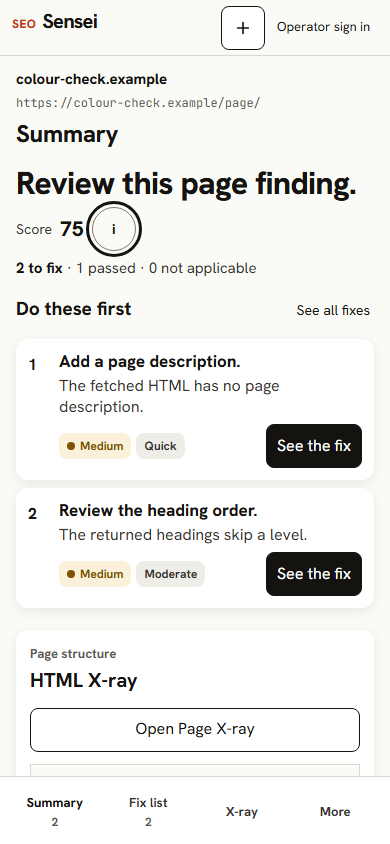
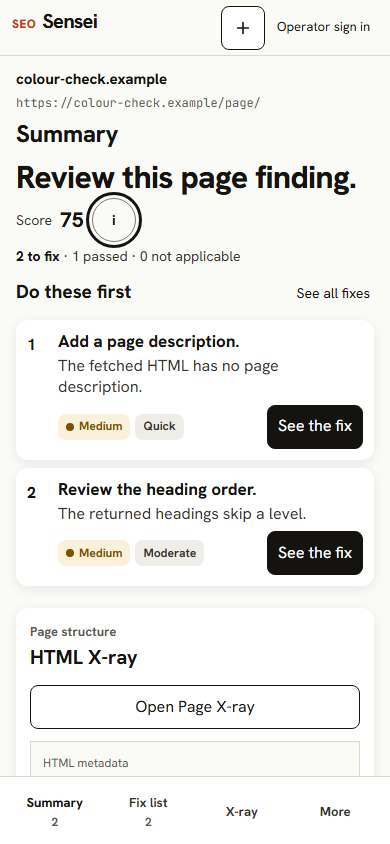
Keep long mobile summary priorities above navigation

diff --git a/web/e2e/phase-s2c1-quality.spec.ts b/web/e2e/phase-s2c1-quality.spec.ts
@@ -1,4 +1,6 @@
 import AxeBuilder from "@axe-core/playwright";
+import { mkdirSync } from "node:fs";
+import { resolve } from "node:path";
 import { expect, test, type Page } from "@playwright/test";
 
 const appOrigin = "http://127.0.0.1:4173";
@@ -307,6 +309,105 @@ test("long priority reasons wrap and remain fully visible", async ({ page }) => 
     expect(dimensions.scrollHeight).toBeLessThanOrEqual(dimensions.clientHeight + 1);
     expect(dimensions.scrollWidth).toBeLessThanOrEqual(dimensions.clientWidth + 1);
   }
+});
+
+test("keeps two complete priority cards above mobile navigation with the controlled warnings report", async ({ page }) => {
+  const api = await installApi(page);
+  const report = analysisFor("medium", true);
+  const first = report.checks.find((item) => item.id === "meta_description")!;
+  first.id = "visible_text";
+  first.category = "headings_content_structure";
+  first.anatomy_part = "content";
+  first.impact = "high";
+  first.finding_title = "Check whether this short page needs more context";
+  first.finding_reason = "A short page may be appropriate for its purpose. Check whether visitors get the context they need.";
+  const second = report.checks.find((item) => item.id === "heading_hierarchy")!;
+  second.id = "title";
+  second.category = "metadata";
+  second.anatomy_part = "title";
+  second.finding_title = "Make the page title more descriptive";
+  second.finding_reason = "The title has 11 characters. Check that it clearly identifies this page; this length check does not predict search presentation.";
+  const additionalFindings = [
+    { id: "canonical", title: "Canonical URL", finding_title: "Review the canonical URL", finding_reason: "The observed canonical relationship is missing. Confirm that the canonical URL identifies the page intended by the site owner.", impact: "medium", effort: "moderate", anatomy_part: "technical" },
+    { id: "internal_links", title: "Internal links", finding_title: "Add useful links to related pages", finding_reason: "No internal links were detected in the fetched HTML. Add links where they help visitors move between related pages.", impact: "medium", effort: "moderate", anatomy_part: "links" },
+    { id: "open_graph", title: "Open Graph metadata", finding_title: "Add useful social sharing details", finding_reason: "The fetched HTML contains 0 of four checked Open Graph fields.", impact: "low", effort: "quick", anatomy_part: "sharing" },
+    { id: "twitter_metadata", title: "X metadata", finding_title: "Add useful X sharing details", finding_reason: "The fetched HTML contains 0 of four checked X card fields.", impact: "low", effort: "quick", anatomy_part: "sharing" },
+  ];
+  report.checks.push(...additionalFindings.map((finding) => ({
+    ...first,
+    ...finding,
+  })));
+  const passingCheck = report.checks[0]!;
+  report.checks.push(...Array.from({ length: 13 }, (_, index) => ({
+    ...passingCheck,
+    id: `controlled_pass_${index + 1}`,
+    title: `Passing check ${index + 1}`,
+  })));
+  report.checks.push(...Array.from({ length: 2 }, (_, index) => ({
+    ...passingCheck,
+    id: `controlled_na_${index + 1}`,
+    title: `Not applicable check ${index + 1}`,
+    status: "not_applicable",
+  })));
+  report.checks.push({
+    ...passingCheck,
+    id: "json_ld",
+    title: "Structured data",
+    status: "warning",
+    impact: null,
+    effort: null,
+    is_actionable: false,
+    optional_note: "Optional structured data was not found.",
+    exclusion_reason: "Optional structured data is not required for every page.",
+  });
+  report.findings_summary.total_checks = 23;
+  report.findings_summary.raw_passes = 14;
+  report.findings_summary.raw_warnings = 7;
+  report.findings_summary.raw_failures = 0;
+  report.findings_summary.raw_not_applicable = 2;
+  report.findings_summary.actionable_count = 6;
+  report.findings_summary.optional_note_count = 1;
+  report.findings_summary.by_impact = { blocking: 0, high: 1, medium: 3, low: 2 };
+  report.findings_summary.by_effort = { quick: 3, moderate: 3, larger_job: 0 };
+  report.findings_summary.prioritized_check_ids = ["visible_text", "title", "canonical", "internal_links", "open_graph", "twitter_metadata"];
+  report.findings_summary.exclusions = [{
+    check_id: "json_ld",
+    status: "warning",
+    reason: "Optional structured data is not required for every page.",
+  }];
+  report.findings_summary.verdict = "6 fixes. The very short page content matters most.";
+  report.deterministic_score.overall_score = 84;
+  report.deterministic_score.points_earned = 84;
+  api.setCustomReport(report);
+
+  await page.setViewportSize({ width: 390, height: 844 });
+  await page.goto("/");
+  await submitAudit(page);
+  await expect(page.getByRole("heading", { name: "Summary" })).toBeVisible();
+  const measurement = await page.evaluate(() => {
+    const nav = document.querySelector<HTMLElement>(".guest-mobile-tabs")!.getBoundingClientRect();
+    const cards = Array.from(document.querySelectorAll<HTMLElement>("[data-priority-card]"))
+      .slice(0, 2)
+      .map((element) => {
+        const box = element.getBoundingClientRect();
+        return { x: box.x, top: box.top, width: box.width, height: box.height, right: box.right, bottom: box.bottom };
+      });
+    return { navTop: nav.top, cards, scrollWidth: document.documentElement.scrollWidth };
+  });
+  console.log("S2-C1 controlled warnings mobile priority bounds:", JSON.stringify(measurement));
+  expect(measurement.scrollWidth).toBe(390);
+  expect(measurement.cards).toHaveLength(2);
+  expect(measurement.cards.every((card) => card.top >= 0 && card.bottom <= measurement.navTop)).toBe(true);
+  await expect(page.getByTestId("summary-count-line")).toContainText("6 to fix");
+  await expect(page.getByTestId("summary-count-line")).toContainText("14 passed");
+  await expect(page.getByTestId("summary-count-line")).toContainText("2 not applicable");
+  await expect(page.getByTestId("summary-count-line")).toContainText("1 optional note");
+  await expect(page.locator("[data-priority-card] .guest-priority-copy p").first()).toHaveText(first.finding_reason!);
+  await expect(page.locator("[data-priority-card] .guest-priority-copy p").nth(1)).toHaveText(second.finding_reason!);
+  await expect(page.locator("[data-priority-card] .guest-priority-copy p").first()).toHaveCSS("font-size", "16px");
+  const evidenceDirectory = resolve(process.cwd(), "review/s2-c1");
+  mkdirSync(evidenceDirectory, { recursive: true });
+  await page.screenshot({ path: resolve(evidenceDirectory, "summary-mobile-priority-clearance-390x844.png") });
 });
 
 test("checks keyboard access, announcements, touch targets, and responsive reflow", async ({ page }) => {

diff --git a/web/src/styles/s2-a.css b/web/src/styles/s2-a.css
@@ -191,7 +191,7 @@
 .guest-score-popover li strong { font-size: 12px; }
 .guest-report-counts { margin: 9px 0 0; color: #36342f; font-size: 16px; }
 .guest-report-counts strong, .guest-fix-count strong { color: #14130f; font-weight: 750; }
-.guest-optional-count { margin: 2px 0 0; color: #5c5952; font-size: 13px; }
+.guest-optional-count { color: #5c5952; font-size: 13px; }
 .guest-priority-heading, .guest-section-heading { display: flex; align-items: baseline; justify-content: space-between; gap: 12px; }
 .guest-priority-heading { margin: 16px 0 8px; }
 .guest-priority-heading h2, .guest-section-heading h2 { margin: 0; color: #14130f; font-size: 21px; font-weight: 750; line-height: 1.2; }
@@ -396,20 +396,20 @@
   .guest-url-input { min-height: 56px; font-size: 13px !important; }
   .guest-entry-form > .guest-primary-button { min-height: 48px; }
   .guest-examples { margin-top: 28px; }
-  .guest-page-identity { margin-bottom: 10px; }
+  .guest-page-identity { margin-bottom: 6px; }
   .guest-page-identity .guest-summary-kicker { margin-top: 8px; }
   .guest-page-identity h1 { font-size: 24px; }
   .guest-verdict-heading { display: block; }
-  .guest-verdict { max-width: 24ch; font-size: 32px; }
-  .guest-score { width: fit-content; margin-top: 7px; padding: 0; border: 0; }
+  .guest-verdict { max-width: 24ch; margin-top: 2px; font-size: 32px; }
+  .guest-score { width: fit-content; margin-top: 4px; padding: 0; border: 0; }
   .guest-score strong { font-size: 21px; }
   .guest-score-help summary { width: 44px; height: 44px; }
-  .guest-report-counts { margin-top: 6px; font-size: 15px; }
-  .guest-priority-heading { margin: 8px 0 6px; }
+  .guest-report-counts { margin-top: 4px; font-size: 14px; }
+  .guest-priority-heading { margin: 4px 0; }
   .guest-priority-heading h2 { font-size: 19px; }
   .guest-priority-heading .guest-text-button { min-height: 44px; font-size: 14px; }
   .guest-priority-list { gap: 8px; }
-  .guest-priority-card { grid-template-columns: 22px minmax(0, 1fr); gap: 7px 9px; padding: 12px; }
+  .guest-priority-card { grid-template-columns: 22px minmax(0, 1fr); gap: 7px 9px; padding: 11px; }
   .guest-priority-number { grid-row: 1 / span 2; font-size: 16px; }
   .guest-priority-copy h3 { font-size: 17px; }
   .guest-priority-copy p { margin-top: 3px; font-size: 16px; line-height: 1.32; overflow-wrap: anywhere; }

diff --git a/web/src/features/guest/GuestSummary.tsx b/web/src/features/guest/GuestSummary.tsx
@@ -65,8 +65,8 @@ export function GuestSummary({ report, onSeeFix, onReviewAll, onOpenXray }: Prop
 
         <p className="guest-report-counts" data-testid="summary-count-line">
           <strong>{model.openCount} to fix</strong><span aria-hidden="true"> · </span>{model.passedCount} passed<span aria-hidden="true"> · </span>{model.notApplicableCount} not applicable
+          {optionalCount > 0 && <><span aria-hidden="true"> · </span><span className="guest-optional-count">{optionalCount} optional {optionalCount === 1 ? "note" : "notes"}</span></>}
         </p>
-        {optionalCount > 0 && <p className="guest-optional-count">{optionalCount} optional {optionalCount === 1 ? "note" : "notes"}</p>}
 
         <div className="guest-priority-heading">
           <h2>Do these first</h2>

diff --git a/docs/s2-c-quality-ledger.md b/docs/s2-c-quality-ledger.md
@@ -4,8 +4,9 @@
 
 - Required `origin/main`: `f3a024b83653f738fd55124d3c012e94b1605b57`.
 - Feature branch: `fix/s2-c1-quality-accessibility`, created from that exact main commit.
-- Code and evidence commit: `5e9f16a1d79b84c9592f050b213612f002085548`.
-- The ledger is committed separately. The delivery report and PR checks identify the final branch tip and exact-head CI result.
+- Starting feature SHA for this final correction: `376c64155519ee6eed2a0a3f2588c713dce1aab5`.
+- Initial implementation/evidence commit: `5e9f16a1d79b84c9592f050b213612f002085548`.
+- The ledger and final corrections are committed separately. The delivery report and PR checks identify the final branch tip and exact-head CI result.
 - PR #10 is read-only and remains a separate unmerged design reference at `51a8134ce6a162730bfc8c97bc6c1d76a81d376e`.
 
 ## Confirmed defects and corrections
@@ -56,8 +57,8 @@ The production Chromium suite covered Home, Summary, Fix list, Page X-ray, On-pa
 
 - Widths 320, 390, 768, 1024 and 1440px: no horizontal overflow on measured implemented guest pages; minimum measured interactive target height is 44px.
 - Landscape 844×390: no horizontal overflow; minimum target remains 44px; the last report control clears the fixed navigation.
-- At 390×844 Summary: priority 1 is y=338.64–480.11px; priority 2 is y=488.11–608.47px; fixed navigation begins y=776px. The second card has 167.53px clearance.
-- At 320×844 Summary: first two cards end at y=506.34px and y=673.41px; navigation begins y=776px.
+- At 390×844 Summary using the longer six-finding warning report: priority 1 is x=16, y=389.17, 358×181.83px; priority 2 is x=16, y=579, 358×181.69px; fixed navigation begins y=776px. The second card has 15.31px clearance; its full reason and action remain visible at 16px body text.
+- At 320×844 Summary on the two-finding responsive report: the first two cards end at y=487.78px and y=654.84px; navigation begins y=776px.
 - A 1.5× computed-text-size stress at 390px reports no horizontal overflow or right-edge clipping across Summary, Fix list, X-ray, On-page, and Previews. This is not browser zoom evidence.
 - Actual browser 200% zoom and manual screen-reader testing were not performed and remain **UNVERIFIED**. Automated Axe results do not substitute for those checks.
 - The X-ray is the visually longest report screen on mobile. Its mapped evidence and selected details remain available; no blocking overlap was observed. Desktop detail panel remains visible while a selected region is scrolled into view.
@@ -77,9 +78,9 @@ Capture metadata and exact rectangles are in [`web/review/s2-c1/README.md`](../w
 | S2C1-7 SHOULD audit | PASS | This ledger; keyword/loading/long-copy and X-ray Playwright tests | Items 7–13 each have evidence, disposition, impact, and follow-up action. Mark-done is intentionally deferred. |
 | S2C1-8 keyboard/focus/dialog/form/announcement | PASS | `checks keyboard access, announcements, touch targets, and responsive reflow`; Axe and navigation E2E | Home/report screens and More checked; automated Axe only. Manual screen-reader use remains unverified. |
 | S2C1-9 responsive, text enlargement, reflow | PASS | Same responsive test | 320/390/768/1024/1440 and landscape 844×390; 1.5× text stress; no overflow/clipping. Real 200% browser zoom remains unverified. |
-| S2C1-10 mobile Summary cards | PASS | Responsive test and `summary-mobile-priority-clearance-390x844.png` | Second card bottom 608.47px; nav top 776px; 167.53px clearance at 390×844. |
+| S2C1-10 mobile Summary cards | PASS | `keeps two complete priority cards above mobile navigation with the controlled warnings report`; `web/review/s2-c1/summary-mobile-priority-clearance-390x844.png` | Six-finding warning report at 390×844: second card bottom 760.69px; nav top 776px; 15.31px clearance. Full reasons and actions fit; reason text remains 16px. |
 | S2C1-11 evidence/security invariants | PASS | JSON-LD tests, guest/security regression suite, E2E keyword and external-request checks, static scope review | No scoring/auth/security contract change, keyword not sent, no new outbound request or fabricated content. Live provider and deployment behavior are not claimed. |
-| S2C1-12 guest/auth/scoring/extension regression | UNVERIFIED pending exact-head integration CI | Full local pytest, web unit/E2E, focused HTTPS checks earlier in this task; final CI | Local checks passed. Exact final-head authenticated integration/container jobs are required because the complete local integration screenshot suite was not rerun; it writes into the separately reviewed S2-B2 evidence directory. |
+| S2C1-12 guest/auth/scoring/extension regression | PASS | `.\tests\integration\run_phase2d_local.ps1`; full Pytest and web regression suites | Isolated HTTPS/Caddy integration passed 6/6, including authenticated analysis, API-domain isolation, guest journey, controlled analysis-to-X-ray, specialist pages, reload recovery and cancellation. No production config changed. |
 | S2C1-13 final GitHub CI | UNVERIFIED pending final-head checks | PR check runs on final branch tip | Report exact run/head and all five job states in delivery; do not infer success from earlier CI. |
 | S2C1-14 protected state and artifacts | UNVERIFIED pending delivery recheck | Git SHA/PR metadata, diff inventory, artifact SHA256 | Main, PR #10, environment, and named untracked files must be rechecked after push. |
 
@@ -98,11 +99,12 @@ npm --prefix web run lint                                     passed
 npm --prefix web test                                         8 files, 90 tests passed
 npm --prefix web run build                                    passed; Vite transformed 141 modules
 npm --prefix web run test:e2e -- --workers=1 --grep-invert "captures demo and authentication browser review screenshots|renders v1.1 verdicts, shared counts, priority order, and severity colors in production reports|opens the fictional Northstar report X-ray and preserves its provenance|local example opens reload-safe On-page and Previews with usable mobile navigation"
-                                                               18 passed
+                                                               19 passed
+.\tests\integration\run_phase2d_local.ps1                   passed; isolated HTTPS integration 6/6
 git diff --check                                             passed
 ```
 
-Pytest skip: `tests/test_browser_auth.py:552`, POSIX account-file mode check not applicable on Windows. The local final Playwright invocation intentionally excluded four existing screenshot-capture tests to avoid overwriting previously approved S1-B/S2-A/S2-B evidence; the new C1 captures were generated by allowed tests. The controlled HTTPS integration harness had passed three focused checks earlier in this task sequence (Caddy routing/isolation, zero-fix result/reload recovery, and cancellation); it was not rerun after the CSS-only sticky-detail adjustment. The exact-head GitHub authenticated integration job remains the final regression evidence.
+Pytest skip: `tests/test_browser_auth.py:552`, POSIX account-file mode check not applicable on Windows. The final local Playwright invocation excluded four existing screenshot-capture tests to avoid overwriting approved milestone captures; all other 19 browser tests passed. The HTTPS harness passed all six integration tests, including the formerly failing two-card mobile Summary assertion. Its run refreshed screenshots in prior milestone folders; those tracked files were clean before the run and were restored to their pre-run revisions. The harness removed its own PID-scoped temporary directory. The three previously identified untracked artifacts remain untouched. Exact-head GitHub CI remains the final remote check.
 
 Fixture verification retained the existing SHA256 values:
 

diff --git a/web/review/s2-c1/README.md b/web/review/s2-c1/README.md
@@ -4,7 +4,7 @@ The four files below are unmodified Chromium captures from the production React 
 
 | File | Route and provenance | Viewport | Browser-measured state and native-size review |
 |---|---|---:|---|
-| `summary-mobile-priority-clearance-390x844.png` | `?view=overview&source=guest`; controlled browser API response with two actionable findings, not a live fetch | 390×844 | Priority 1 rectangle y=338.64–480.11px; Priority 2 y=488.11–608.47px; fixed navigation top y=776px. The second card clears navigation by 167.53px. Both complete cards are visible. |
+| `summary-mobile-priority-clearance-390x844.png` | `?view=overview&source=guest`; controlled browser API response shaped to the known six-finding `WARNING_DOCUMENT` Summary, not a live fetch or backend integration | 390×844 | Priority 1 rectangle x=16, y=389.17, 358×181.83px; Priority 2 x=16, y=579, 358×181.69px; fixed navigation top y=776px. The second card clears navigation by 15.31px. Both full reasons and actions are visible; body text is 16px. |
 | `xray-stationary-routed-1440x900.png` | `?view=xray&source=guest&check=robots_directives`; controlled browser API response, not a live fetch | 1440×900 | Captured after navigating with the pointer left over “Show on X-ray”; scrollY=644px. Focused pin x=395.19, y=752.47, 44×44px; selected region x=383.19, y=677.48, 559.58×133.98px; sticky detail panel x=982.77, y=24, 338.05×361.09px. Pin, highlighted region, route check and Priority 1 detail agree. |
 | `xray-deliberate-hover-1440x900.png` | `?view=xray&source=guest&check=robots_directives`; controlled response, with deliberate pointer movement to the other mapped finding | 1440×900 | scrollY=0. Hovered pin x=392.19, y=600, 44×44px; selected region x=384.19, y=491.63, 557.58×169.38px; detail panel x=982.77, y=282.27, 338.05×336.09px. The detail panel and highlight show Priority 2 heading-order finding during intentional hover. |
 | `xray-keyboard-focus-1440x900.png` | `?view=xray&source=demo&access=guest&check=robots_directives`; known fictional local Northstar example, with the Open Graph pin keyboard-focused | 1440×900 | scrollY=983px. Focused Priority 3 pin x=395.19, y=654.02, 44×44px; selected region x=383.19, y=555.84, 559.58×156.17px; sticky detail panel x=982.77, y=24, 338.05×407.47px. Visible focus ring, Priority 3 pin, region and Open Graph detail agree. |
@@ -13,7 +13,7 @@ Rectangles are CSS pixels measured from `getBoundingClientRect()` in the actual 
 
 ## Additional measured regression results
 
-- Summary at 390×844 keeps its first two priority cards fully above the fixed navigation: second card bottom y=608.47px, navigation top y=776px.
+- Summary at 390×844 keeps its first two priority cards fully above the fixed navigation on the longer six-finding warning report: second card bottom y=760.69px, navigation top y=776px, clearance 15.31px. This capture was refreshed after tightening only mobile Summary spacing.
 - Responsive tests measured no horizontal overflow and no interactive target below 44px at 320, 390, 768, 1024 and 1440px. Landscape 844×390 and a 1.5× text-size stress pass also had no horizontal overflow or right-edge text clipping. The latter is a text-size stress test, not browser zoom evidence.
 - The computed-style audit found zero unauthorized vermilion uses in Home (including keyboard focus), normal/High/Blocking/zero-fix Summary, Fix list, X-ray, On-page, Previews, mobile More, Loading and Error states.
 - The S1-A static proof checker is on its separate unmerged branch and was not changed.
